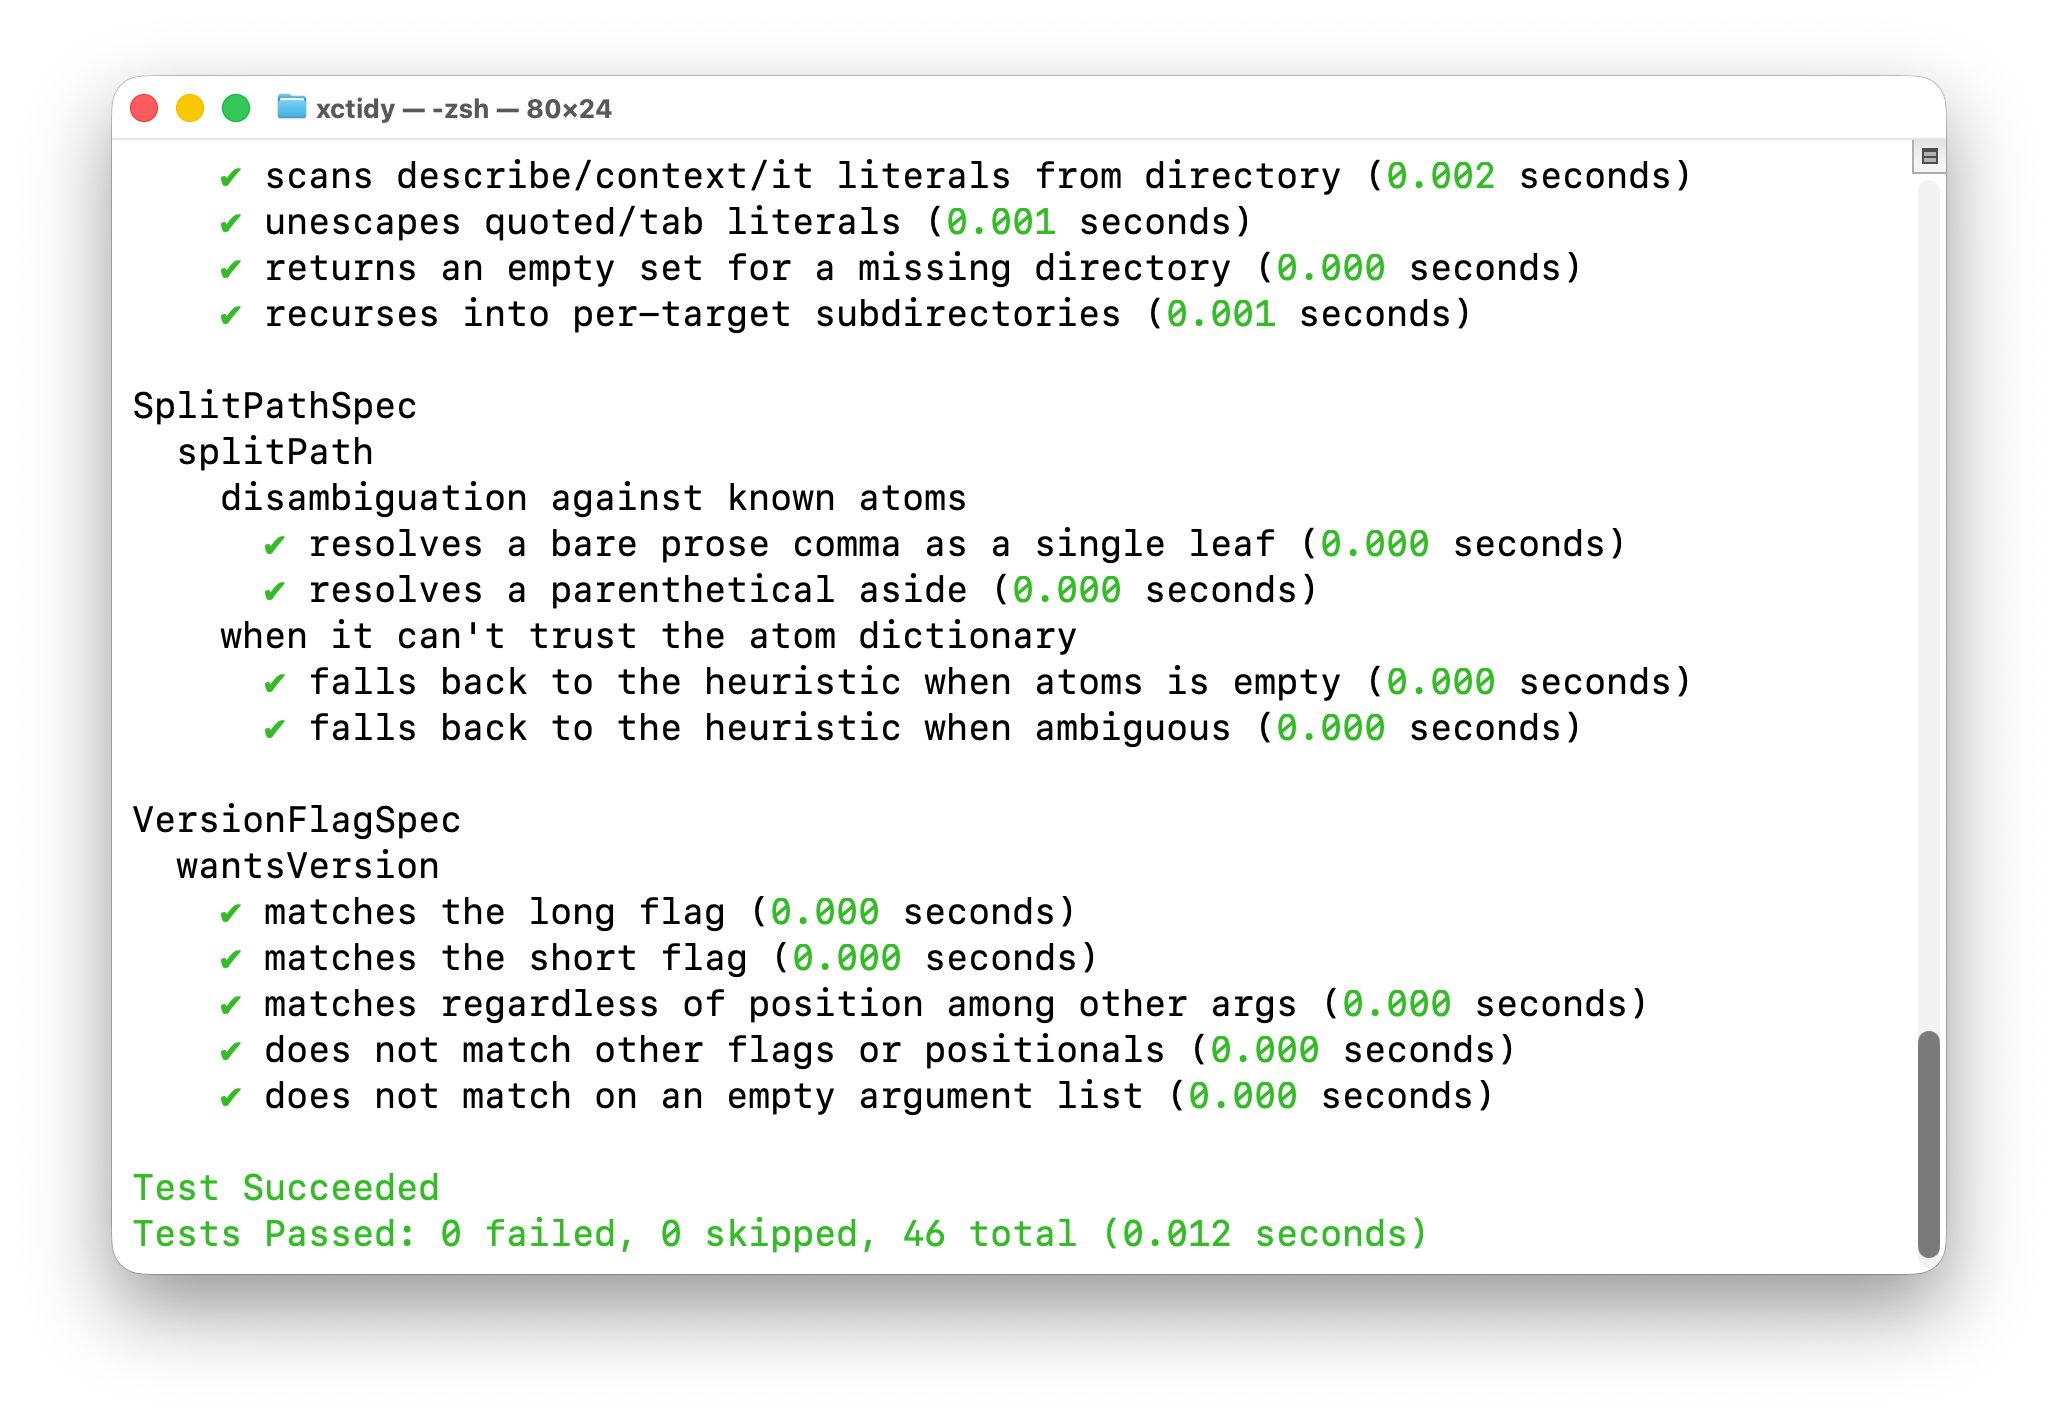
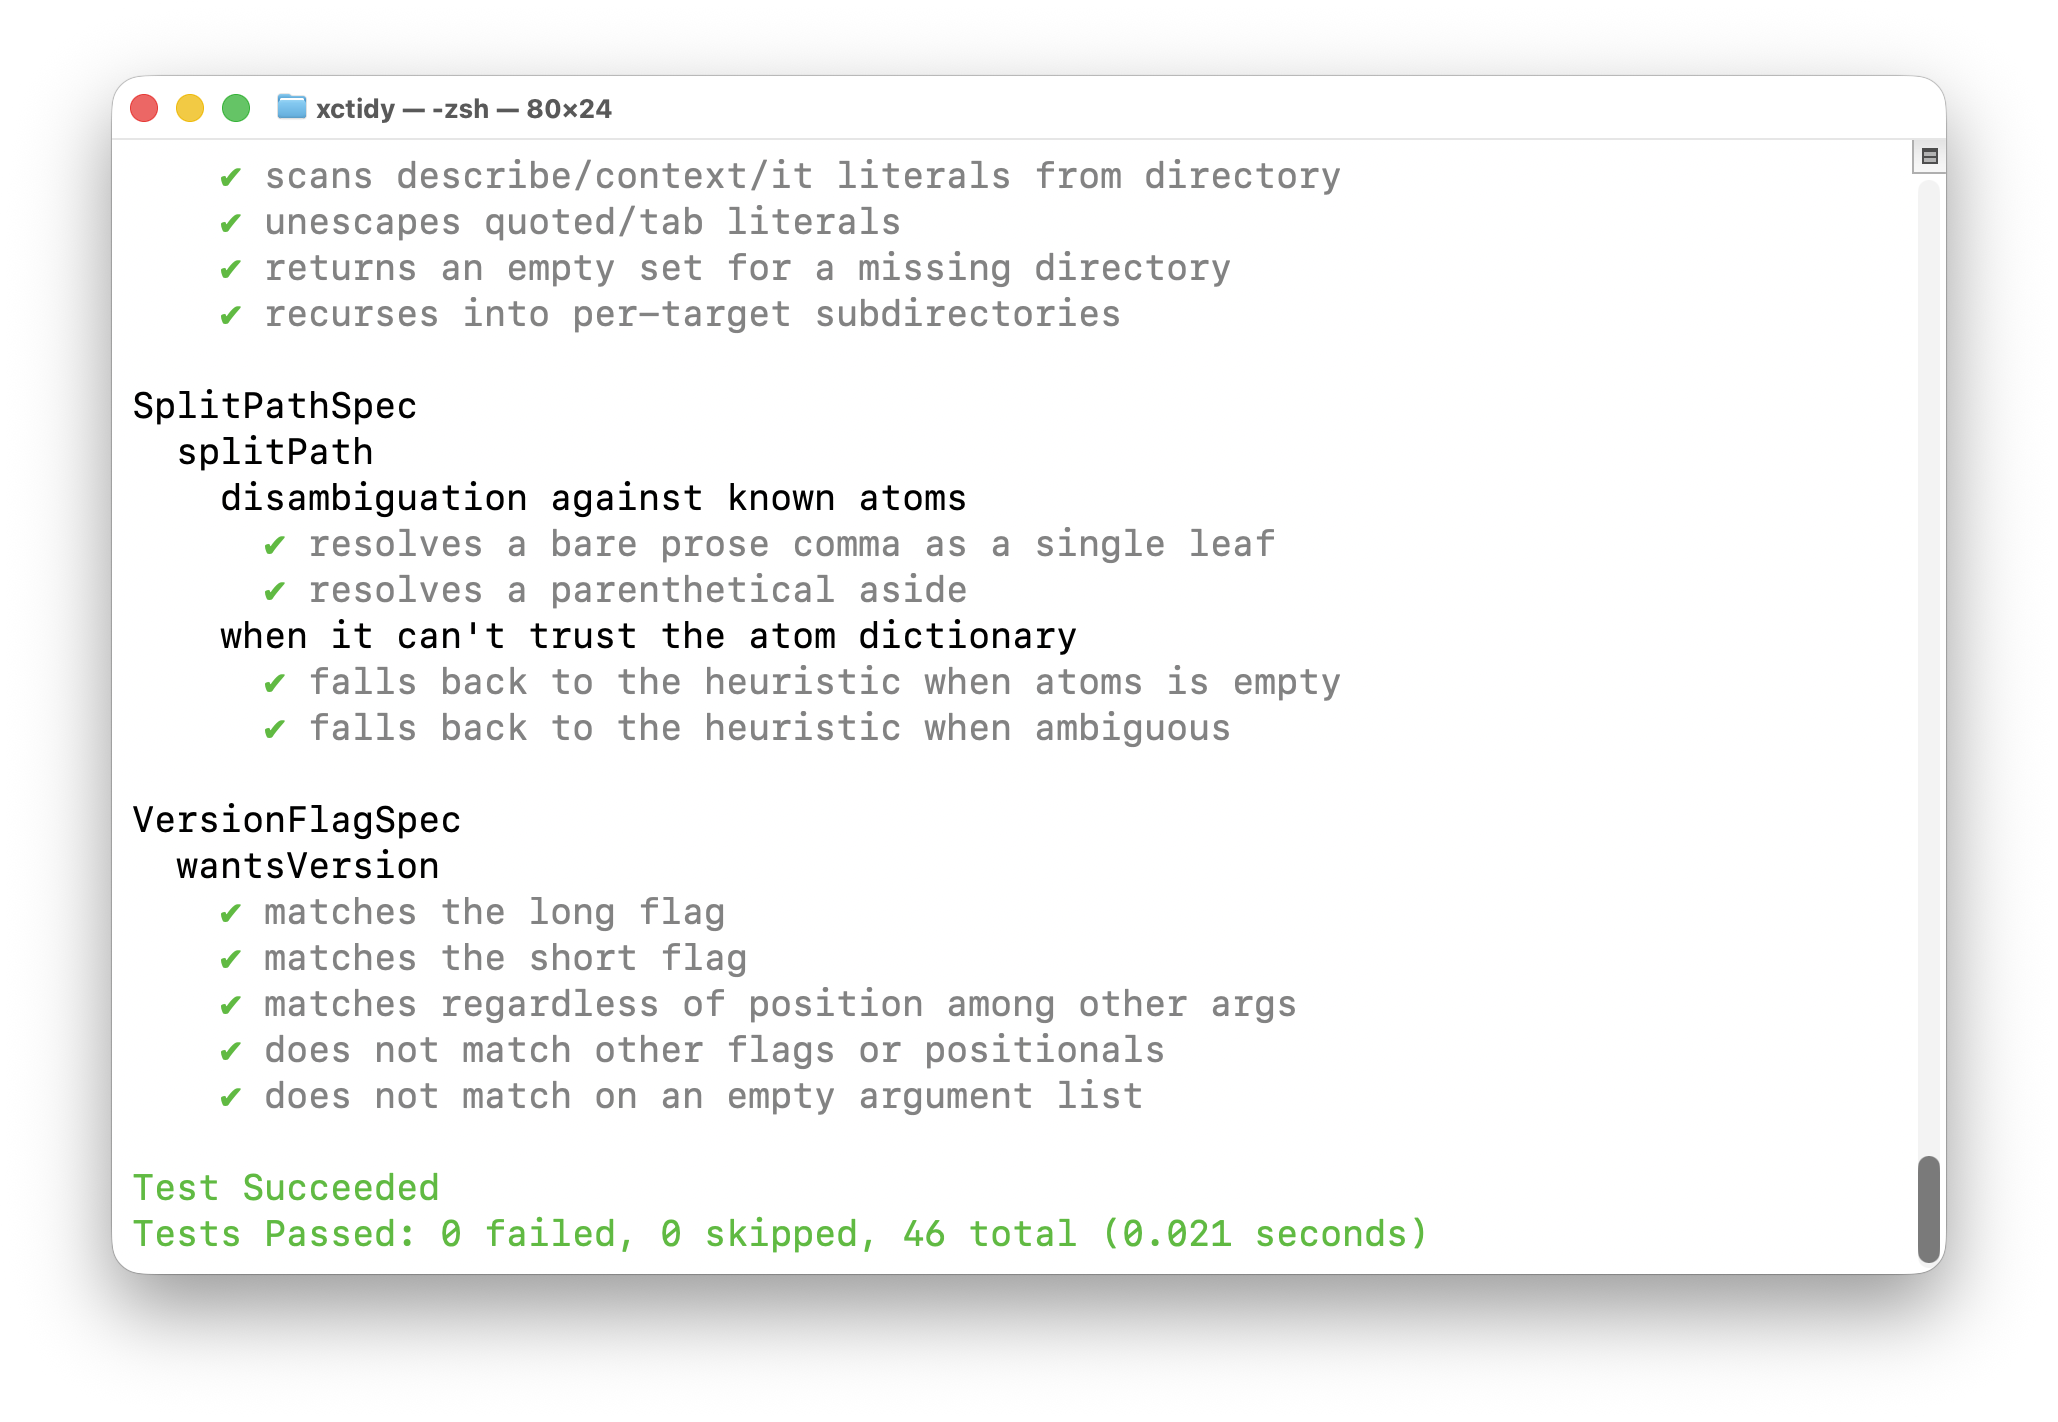
README: restructure to shared 5-section shape; Makefile: make test renders -fs; FRAMEWORK.md: keep spec descriptions concise; refresh dogfood screenshot

diff --git a/README.md b/README.md
@@ -7,17 +7,14 @@
 
 ![Example Screenshot](docs/example.png)
 
+**Adds nested describe/context/it tree support to `xcodebuild`, in RSpec,
+Mocha, or Vitest's own output conventions.**
 
-**Adds nested describe/context/it tree support to `xcodebuild`.**
-
-An alternative to xcbeautify and xcpretty written in Swift.
-
-## Features
-
-- Test output is more concise and readable
-- Familiar output conventions from RSpec and Mocha
-- Drop-in `xcodebuild_formatter` for fastlane's `scan`/`gym`/`snapshot`
-- Written in Swift and compiles to a static binary
+`xctidy` parses `xcodebuild test`/`swift test` output directly -- the same
+textual protocol xcpretty and xcbeautify both regex-match -- and re-renders
+it as a nested tree. Written in Swift and compiled to a static binary, it's
+a drop-in `xcodebuild_formatter` for fastlane's `scan`/`gym`/`snapshot`, and
+an alternative to xcbeautify and xcpretty outside of fastlane too.
 
 ## Installation
 
@@ -110,10 +107,12 @@ aggregate suite) hasn't been verified against real `xcodebuild` output, so
 a suite-level pass/fail count risks over-counting the wrapper suites as if
 they were their own files.
 
-The screenshot above is `-fd`. Full samples of all three xcbeautify-style
+The screenshot above is `-fs`. Full samples of all three xcbeautify-style
 styles: [docs/HOW_IT_WORKS.md](docs/HOW_IT_WORKS.md#output-styles).
 
-## Writing tests
+## Things to know
+
+### Writing tests
 
 `xctidy` renders whatever nesting your test framework produces, so the
 nesting it shows is only as good as how you write your specs. If you're
@@ -131,18 +130,23 @@ For how we structure what's *inside* a spec -- nesting context so it's
 available to sub-tests, mocking and stubbing -- see
 [docs/FRAMEWORK.md](docs/FRAMEWORK.md).
 
+### Limitations
+
+See [docs/HOW_IT_WORKS.md](docs/HOW_IT_WORKS.md#known-limitations) for how
+the comma disambiguation and failure folding actually work, and for known
+limitations (no Linux support, no JUnit/CI-UI renderers, Quick/Nimble-only
+scope).
+
 ## Development
 
 ```
 make build    # swift build --configuration release
 make install  # builds, then copies the binary to $(PREFIX)/bin (default /usr/local)
-make test     # verbose, dogfoods xctidy on its own suite (swift test | xctidy)
+make test     # verbose, dogfoods xctidy on its own suite in -fs style (swift test | xctidy -fs)
 make lint     # swiftlint lint --strict
 make check    # terse: silent on success, full log on failure
 ```
 
 See [docs/DEVELOPMENT.md](docs/DEVELOPMENT.md) for project layout, how to
 add a render style, the release process, and the rest of the Makefile
-(`uninstall`, `clean`, `xcode`). See
-[docs/HOW_IT_WORKS.md](docs/HOW_IT_WORKS.md) for how the comma
-disambiguation and failure folding actually work, and for known limitations.
+(`uninstall`, `clean`, `xcode`).

diff --git a/docs/FRAMEWORK.md b/docs/FRAMEWORK.md
@@ -20,6 +20,14 @@ different tools -- see `gorderly`'s own
 [docs/FRAMEWORK.md](https://github.com/woodie/gorderly/blob/main/docs/FRAMEWORK.md)
 if you're working on that side instead.
 
+## Keep descriptions concise
+
+`describe`/`context`/`it` strings render as literal lines in the tree --
+treat them like any other line of code meant to be read at a glance. State
+only what's true, in the fewest words that still read like a sentence;
+leave out rationale, comparisons to other tools, or anything that belongs
+in a doc or comment instead.
+
 ## Nesting context so it's available to every sub-test
 
 `beforeEach` closures run fresh before each `it`, from the outermost
